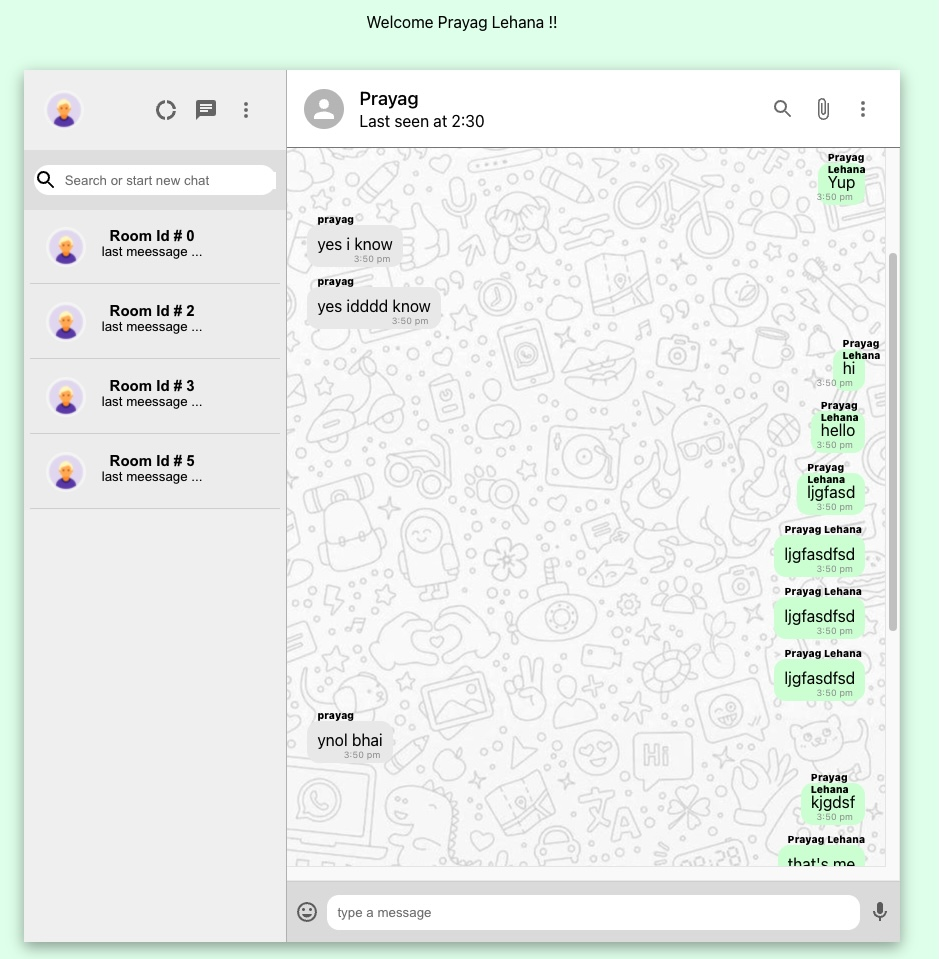
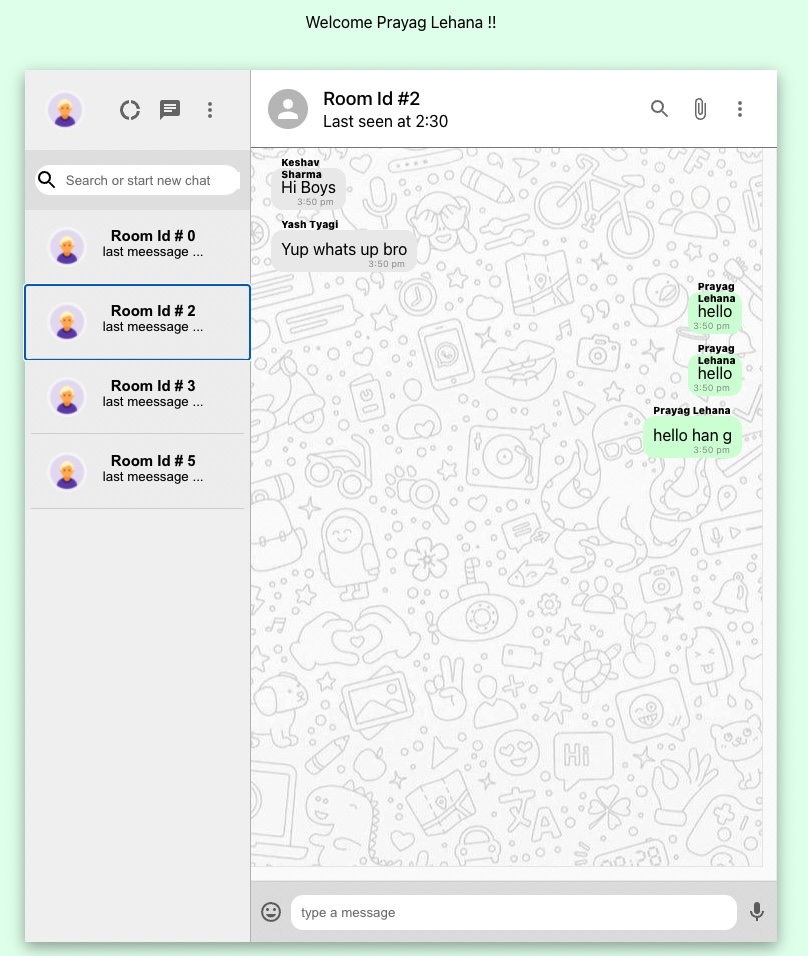
email based filtering

diff --git a/src/App.js b/src/App.js
@@ -7,8 +7,13 @@ import axios from "./axios";
 import { gapi } from "gapi-script";
 import LoginButton from "./login";
 import { makeQueryString } from "./utils";
+// for firebase -google login
 const clientId =
-  "728833144528-jnqafjlf2ogq6p7r7qn7lmkf22iulvs9.apps.googleusercontent.com";
+  "728833144528-ldc26eaqmji0rb7k8gkiammpk3bn336a.apps.googleusercontent.com";
+
+// for local host -google login
+// const clientId =
+//   "728833144528-jnqafjlf2ogq6p7r7qn7lmkf22iulvs9.apps.googleusercontent.com";
 
 function App() {
   const [messages, setMessages] = useState([]);
@@ -20,6 +25,7 @@ function App() {
     console.log("LOGIN Success", res.profileObj);
     setUser({
       loggedIn: true,
+      email: res.profileObj.email,
       name: res.profileObj.name,
     });
   };
@@ -67,7 +73,7 @@ function App() {
 
   useEffect(() => {
     if (user.loggedIn) {
-      let query = makeQueryString({ userName: user.name });
+      let query = makeQueryString({ email: user.email });
       axios.get("/api/v1/user/fetchRooms" + "?" + query).then((res) => {
         console.log("room:: ", res.data);
         setRooms(res.data);

diff --git a/src/components/Chat/Chat.js b/src/components/Chat/Chat.js
@@ -19,7 +19,6 @@ const Chat = ({ roomId, user, messages }) => {
     const txt = document.getElementById("inputTextBox").value;
     console.log("send message", txt);
     document.getElementById("inputTextBox").value = "";
-    fsdfs;
     await axios.post("/api/v1/messages/post", {
       roomId: roomId,
       message: {
@@ -34,7 +33,7 @@ const Chat = ({ roomId, user, messages }) => {
       <div className="chat__header">
         <Avatar />
         <div className="chat__header__info">
-          <h3>Prayag</h3>
+          <h3>Room Id #{roomId}</h3>
           <p>Last seen at 2:30</p>
         </div>
         <div className="chat__header__right">

diff --git a/src/login.js b/src/login.js
@@ -1,7 +1,12 @@
 import { GoogleLogin } from "react-google-login";
 
+// for firebase -google login
 const clientId =
-  "728833144528-jnqafjlf2ogq6p7r7qn7lmkf22iulvs9.apps.googleusercontent.com";
+  "728833144528-ldc26eaqmji0rb7k8gkiammpk3bn336a.apps.googleusercontent.com";
+
+// for local host -google login
+// const clientId =
+//   "728833144528-jnqafjlf2ogq6p7r7qn7lmkf22iulvs9.apps.googleusercontent.com";
 
 function Login({ onSuccess, onFailure }) {
   return (

diff --git a/src/server/models/userModel.js b/src/server/models/userModel.js
@@ -10,9 +10,9 @@ mongoose.connect(dbURL).then((res) => {
 
 const db = mongoose.connection;
 
-export const fetchRoomsForUserName = async (userName) => {
+export const fetchRoomsForUserName = async (email) => {
   return users
-    .findOne({ name: userName }, { _id: 0, rooms: 1 })
+    .findOne({ email: email }, { _id: 0, rooms: 1 })
     .then(({ rooms }) => {
       return rooms;
     });

diff --git a/src/server/routes/api.js b/src/server/routes/api.js
@@ -8,7 +8,7 @@ router.get("/user/fetchRooms", async (req, res) => {
   const query = req.query;
   console.log("msg", query);
 
-  const rooms = await fetchRoomsForUserName(query.userName);
+  const rooms = await fetchRoomsForUserName(query.email);
   console.log("msgs", rooms);
   res.status(201).send(rooms);
 });

diff --git a/src/axios.js b/src/axios.js
@@ -1,7 +1,8 @@
 import axios from "axios";
 
 const instance = axios.create({
-  baseURL: "http://localhost:9000",
+  baseURL: "https://whatsapp-clone-mern-server.herokuapp.com",
+  //   baseURL: "http://localhost:9000",
 });
 
 export default instance;

diff --git a/src/server/server.js b/src/server/server.js
@@ -10,6 +10,7 @@ app.use(express.json());
 app.use(cors());
 app.use("/api/v1", apiRouter);
 
+//heroku process enve
 const port = process.env.PORT || 9000;
 
 const pusher = new Pusher({

diff --git a/README.md b/README.md
@@ -6,23 +6,32 @@ website : https://whatsapp-clone-mern-9b47c.web.app/
 
 In the project directory, you can run:
 
-### `front end look`
+### `Tech`
 
-![alt text](https://github.com/prayaglehana/whatsapp-clone/blob/master/src/resources/whatsapp-frontend.jpg?raw=true)
-Runs the app in the development mode.
+fronend hosted on firebase : https://whatsapp-clone-mern-9b47c.web.app/
+backend deployed on heroku : https://whatsapp-clone-mern-server.herokuapp.com/
+Authentication : google
 
-The page will reload when you make changes.\
-You may also see any lint errors in the console.
+front-end ( react ) ====push-message===> nodejs server ====> mongoDB update
+====> update pusher ( used as a websocket for streaming)====> tells front-end to re-render
 
-### `npm test`
+### `onboard yourself to google authentication`
 
-Launches the test runner in the interactive watch mode.\
-See the section about [running tests](https://facebook.github.io/create-react-app/docs/running-tests) for more information.
+add your email id as new test users :
+https://console.cloud.google.com/apis/credentials/consent?project=whatsapp-mern-343719
 
-You can learn more in the [Create React App documentation](https://facebook.github.io/create-react-app/docs/getting-started).
+modify login.js & App.js
 
-To learn React, check out the [React documentation](https://reactjs.org/).
+for google login based on localhost or firebase-web-host
 
-### Code Splitting
+### heroku deploy server to : https://whatsapp-clone-mern-server.herokuapp.com/
 
-This section has moved here: [https://facebook.github.io/create-react-app/docs/code-splitting](https://facebook.github.io/create-react-app/docs/code-splitting)
+1. heroku login
+2. git add .
+3. git commit -am "make it better"
+4. git push heroku master
+
+### firebase deploy web app to : https://whatsapp-clone-mern-9b47c.web.app/
+
+1. npm run build
+2. firebase deploy
